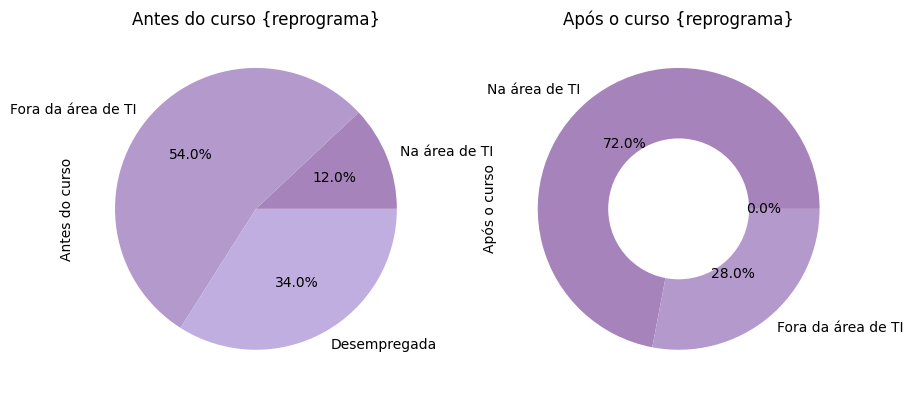
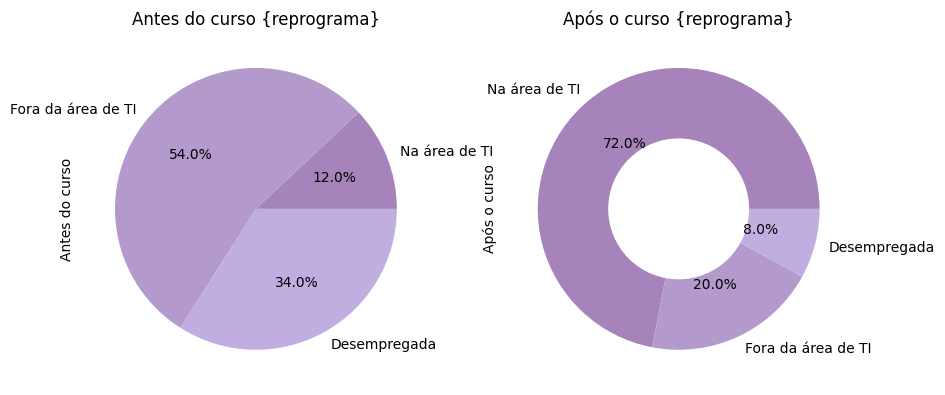
adding changes to the donut chart

diff --git a/Desafio2/graficos.py b/Desafio2/graficos.py
@@ -19,7 +19,7 @@ dados_pizza = {
 dados_rosca = {
     'Emprego na área de TI': ['Na área de TI', 'Fora da área de TI', 'Desempregada'],
     'Antes do curso': [12, 54, 34],
-    'Após o curso': [72, 28, 0]
+    'Após o curso': [72, 20, 8]
 }
 
 # Dados para o gráfico de barras agrupadas
